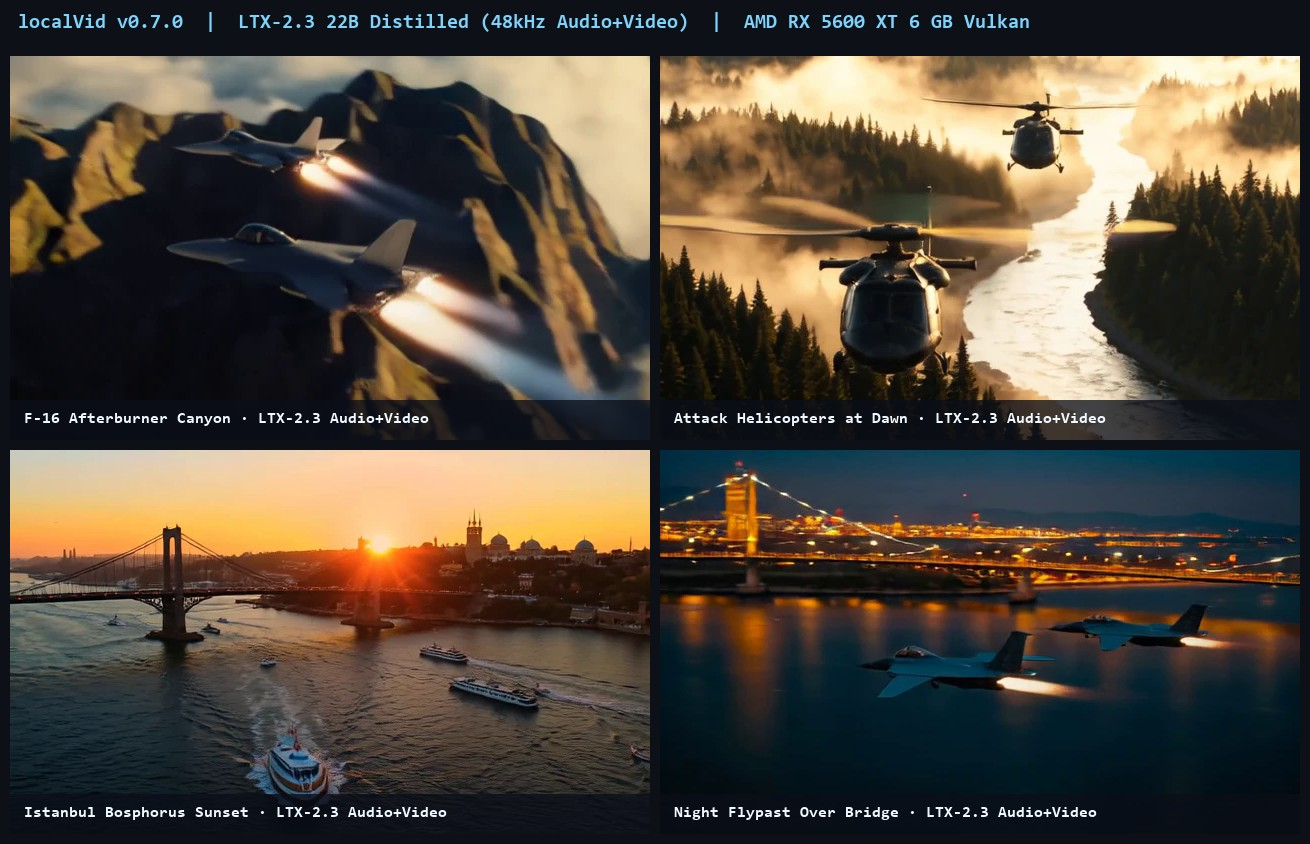
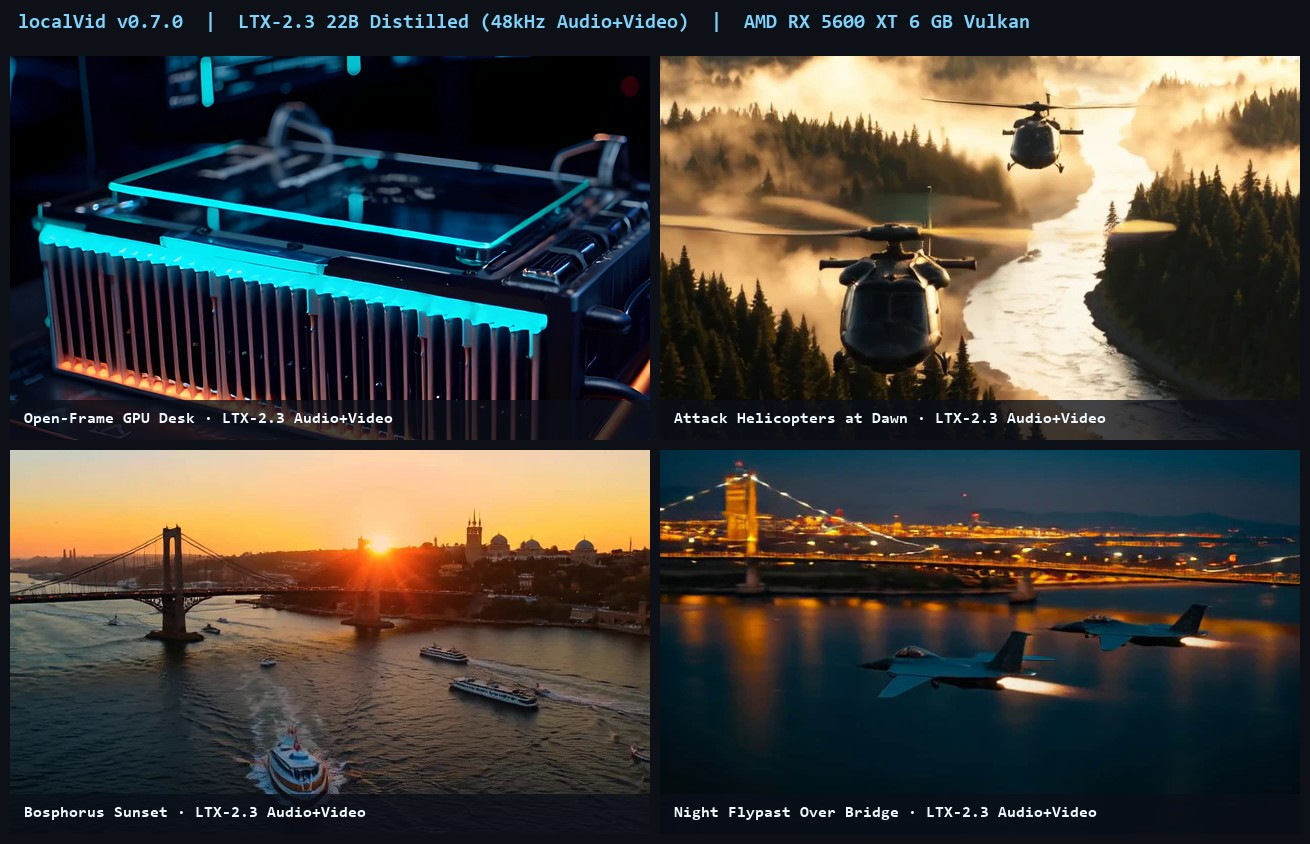
docs(media): replace F-16 canyon with GPU desk clip and use Bosphorus Sunset caption

Changed region(s): [[0.0, 0.0616, 0.5191, 0.5237], [0.0305, 0.955, 0.3359, 0.9858]]

diff --git a/README.tr.md b/README.tr.md
@@ -12,7 +12,7 @@
 </p>
 
 <p align="center">
-  <img src="docs/assets/ltx23_bosphorus_preview.gif" alt="İstanbul Boğazı Gün Batımı — 6 GB VRAM'de yerel üretilen LTX-2.3 22B önizlemesi" width="62%">
+  <img src="docs/assets/ltx23_bosphorus_preview.gif" alt="Boğaz Gün Batımı — 6 GB VRAM'de yerel üretilen LTX-2.3 22B önizlemesi" width="62%">
 </p>
 
 <p align="center">

diff --git a/README.md b/README.md
@@ -12,7 +12,7 @@
 </p>
 
 <p align="center">
-  <img src="docs/assets/ltx23_bosphorus_preview.gif" alt="Istanbul Bosphorus Sunset — LTX-2.3 22B generated locally on 6 GB VRAM" width="62%">
+  <img src="docs/assets/ltx23_bosphorus_preview.gif" alt="Bosphorus Sunset — LTX-2.3 22B generated locally on 6 GB VRAM" width="62%">
 </p>
 
 <p align="center">
